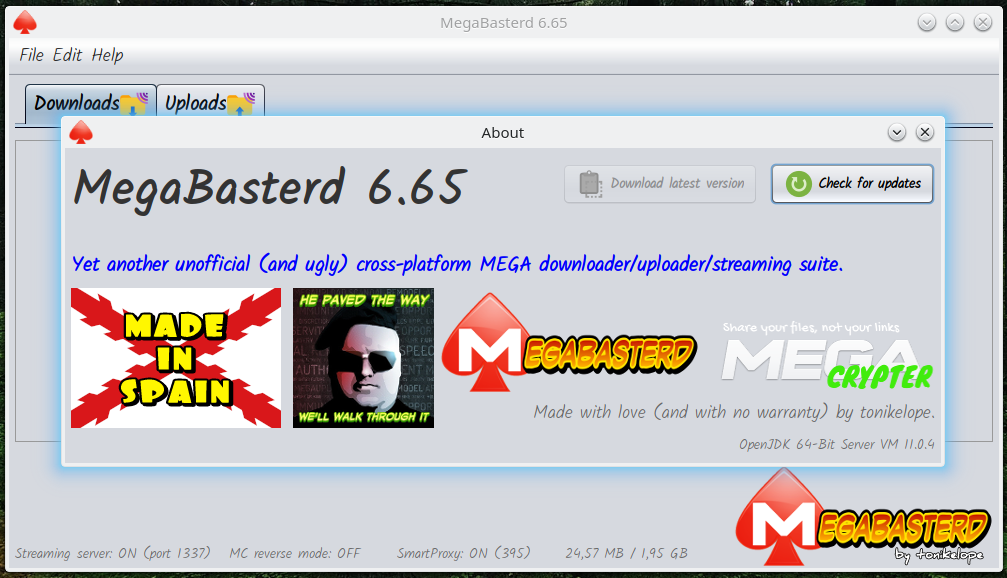
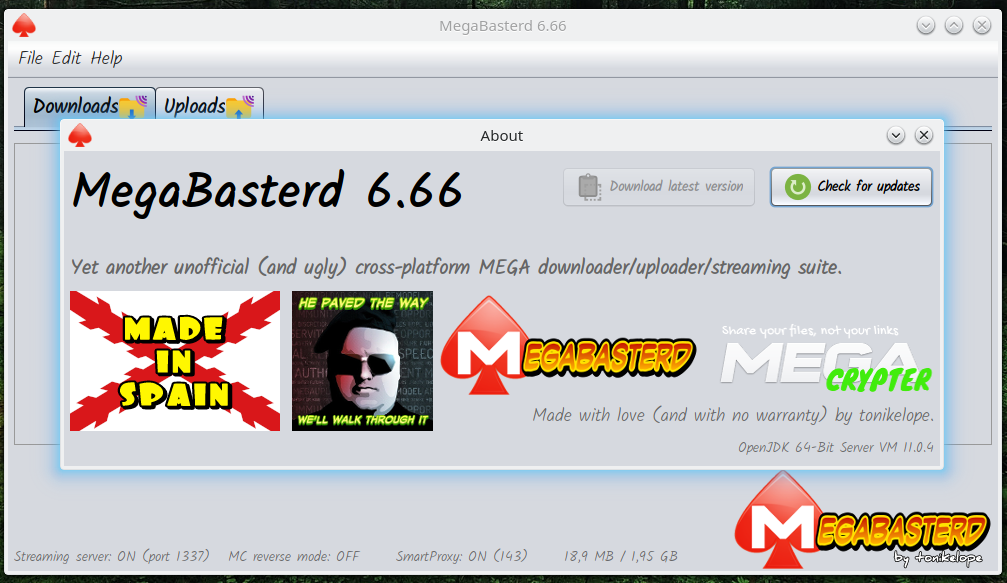
6.66
-Timeouts tunning

(cherry picked from commit 5587e2079a6b3f943ad21d233f8af301dbbc4a95)

diff --git a/src/main/java/com/tonikelope/megabasterd/CryptTools.java b/src/main/java/com/tonikelope/megabasterd/CryptTools.java
@@ -354,7 +354,9 @@ public class CryptTools {
 
                 con.setUseCaches(false);
 
-                con.setConnectTimeout(Upload.HTTP_TIMEOUT);
+                con.setConnectTimeout(Transference.HTTP_CONNECT_TIMEOUT);
+
+                con.setReadTimeout(Transference.HTTP_READ_TIMEOUT);
 
                 con.setRequestProperty("User-Agent", MainPanel.DEFAULT_USER_AGENT);
 
@@ -529,7 +531,9 @@ public class CryptTools {
 
             con.setUseCaches(false);
 
-            con.setConnectTimeout(Upload.HTTP_TIMEOUT);
+            con.setConnectTimeout(Transference.HTTP_CONNECT_TIMEOUT);
+
+            con.setReadTimeout(Transference.HTTP_READ_TIMEOUT);
 
             con.setRequestProperty("User-Agent", "Mozilla/5.0 (X11; U; Linux amd64; rv:44.0) Gecko/20100101 Firefox/44.0");
 

diff --git a/src/main/java/com/tonikelope/megabasterd/ChunkDownloader.java b/src/main/java/com/tonikelope/megabasterd/ChunkDownloader.java
@@ -219,9 +219,11 @@ public class ChunkDownloader implements Runnable, SecureSingleThreadNotifiable {
                 }
 
                 if (_current_smart_proxy != null) {
-                    con.setConnectTimeout(Download.HTTP_PROXY_TIMEOUT);
+                    con.setConnectTimeout(Transference.HTTP_PROXY_CONNECT_TIMEOUT);
+                    con.setReadTimeout(Transference.HTTP_PROXY_READ_TIMEOUT);
                 } else {
-                    con.setConnectTimeout(Download.HTTP_TIMEOUT);
+                    con.setConnectTimeout(Transference.HTTP_CONNECT_TIMEOUT);
+                    con.setReadTimeout(Transference.HTTP_READ_TIMEOUT);
                 }
 
                 con.setUseCaches(false);

diff --git a/src/main/java/com/tonikelope/megabasterd/ChunkDownloaderMono.java b/src/main/java/com/tonikelope/megabasterd/ChunkDownloaderMono.java
@@ -81,7 +81,9 @@ public class ChunkDownloaderMono extends ChunkDownloader {
                             con = (HttpURLConnection) url.openConnection();
                         }
 
-                        con.setConnectTimeout(Download.HTTP_TIMEOUT);
+                        con.setConnectTimeout(Transference.HTTP_CONNECT_TIMEOUT);
+
+                        con.setReadTimeout(Transference.HTTP_READ_TIMEOUT);
 
                         con.setUseCaches(false);
 

diff --git a/src/main/java/com/tonikelope/megabasterd/Transference.java b/src/main/java/com/tonikelope/megabasterd/Transference.java
@@ -10,8 +10,10 @@ public interface Transference {
 
     int MIN_WORKERS = 1;
     int MAX_WORKERS = 20;
-    int HTTP_TIMEOUT = 15000;
-    int HTTP_PROXY_TIMEOUT = 15000;
+    int HTTP_CONNECT_TIMEOUT = 15000;
+    int HTTP_PROXY_CONNECT_TIMEOUT = 15000;
+    int HTTP_READ_TIMEOUT = 15000;
+    int HTTP_PROXY_READ_TIMEOUT = 15000;
     int MAX_SIM_TRANSFERENCES = 20;
     int SIM_TRANSFERENCES_DEFAULT = 4;
     boolean LIMIT_TRANSFERENCE_SPEED_DEFAULT = false;

diff --git a/src/main/java/com/tonikelope/megabasterd/MegaAPI.java b/src/main/java/com/tonikelope/megabasterd/MegaAPI.java
@@ -414,7 +414,9 @@ public class MegaAPI implements Serializable {
 
                 con.setRequestProperty("Content-type", "text/plain;charset=UTF-8");
 
-                con.setConnectTimeout(Transference.HTTP_TIMEOUT);
+                con.setConnectTimeout(Transference.HTTP_CONNECT_TIMEOUT);
+
+                con.setReadTimeout(Transference.HTTP_READ_TIMEOUT);
 
                 con.setRequestProperty("User-Agent", MainPanel.DEFAULT_USER_AGENT);
 

diff --git a/src/main/java/com/tonikelope/megabasterd/ChunkUploader.java b/src/main/java/com/tonikelope/megabasterd/ChunkUploader.java
@@ -158,7 +158,9 @@ public class ChunkUploader implements Runnable, SecureSingleThreadNotifiable {
 
                 con.setFixedLengthStreamingMode(chunk_size);
 
-                con.setConnectTimeout(Upload.HTTP_TIMEOUT);
+                con.setConnectTimeout(Transference.HTTP_CONNECT_TIMEOUT);
+
+                con.setReadTimeout(Upload.HTTP_READ_TIMEOUT);
 
                 con.setRequestProperty("User-Agent", MainPanel.DEFAULT_USER_AGENT);
 

diff --git a/src/main/java/com/tonikelope/megabasterd/Upload.java b/src/main/java/com/tonikelope/megabasterd/Upload.java
@@ -26,6 +26,7 @@ import javax.swing.JComponent;
  */
 public class Upload implements Transference, Runnable, SecureSingleThreadNotifiable {
 
+    public static final int HTTP_READ_TIMEOUT = 30000;
     public static final int WORKERS_DEFAULT = 6;
     public static final int CHUNK_SIZE_MULTI = 1; //Otra cosa da errores al reanudar una subida (investigar)
     private static final Logger LOG = Logger.getLogger(Upload.class.getName());

diff --git a/src/main/java/com/tonikelope/megabasterd/StreamChunkDownloader.java b/src/main/java/com/tonikelope/megabasterd/StreamChunkDownloader.java
@@ -128,7 +128,9 @@ public class StreamChunkDownloader implements Runnable {
                         }
                     }
 
-                    con.setConnectTimeout(Transference.HTTP_TIMEOUT);
+                    con.setConnectTimeout(Transference.HTTP_CONNECT_TIMEOUT);
+
+                    con.setReadTimeout(Transference.HTTP_READ_TIMEOUT);
 
                     con.setUseCaches(false);
 

diff --git a/src/main/java/com/tonikelope/megabasterd/SmartMegaProxyManager.java b/src/main/java/com/tonikelope/megabasterd/SmartMegaProxyManager.java
@@ -80,7 +80,9 @@ public final class SmartMegaProxyManager {
 
                 con = (HttpURLConnection) url.openConnection();
 
-                con.setConnectTimeout(Transference.HTTP_TIMEOUT);
+                con.setConnectTimeout(Transference.HTTP_CONNECT_TIMEOUT);
+
+                con.setReadTimeout(Transference.HTTP_READ_TIMEOUT);
 
                 con.setUseCaches(false);
 

diff --git a/src/main/java/com/tonikelope/megabasterd/MegaCrypterAPI.java b/src/main/java/com/tonikelope/megabasterd/MegaCrypterAPI.java
@@ -55,7 +55,9 @@ public class MegaCrypterAPI {
 
             con.setRequestProperty("Content-type", "application/json");
 
-            con.setConnectTimeout(Transference.HTTP_TIMEOUT);
+            con.setConnectTimeout(Transference.HTTP_CONNECT_TIMEOUT);
+
+            con.setReadTimeout(Transference.HTTP_READ_TIMEOUT);
 
             con.setUseCaches(false);
 

diff --git a/src/main/java/com/tonikelope/megabasterd/MainPanel.java b/src/main/java/com/tonikelope/megabasterd/MainPanel.java
@@ -53,7 +53,7 @@ import javax.swing.UIManager;
  */
 public final class MainPanel {
 
-    public static final String VERSION = "6.65";
+    public static final String VERSION = "6.66";
     public static final int THROTTLE_SLICE_SIZE = 16 * 1024;
     public static final int DEFAULT_BYTE_BUFFER_SIZE = 16 * 1024;
     public static final int STREAMER_PORT = 1337;

diff --git a/src/main/java/com/tonikelope/megabasterd/MiscTools.java b/src/main/java/com/tonikelope/megabasterd/MiscTools.java
@@ -904,7 +904,9 @@ public class MiscTools {
 
                 }
 
-                con.setConnectTimeout(Transference.HTTP_TIMEOUT);
+                con.setConnectTimeout(Transference.HTTP_CONNECT_TIMEOUT);
+
+                con.setReadTimeout(Transference.HTTP_READ_TIMEOUT);
 
                 con.setUseCaches(false);
 
